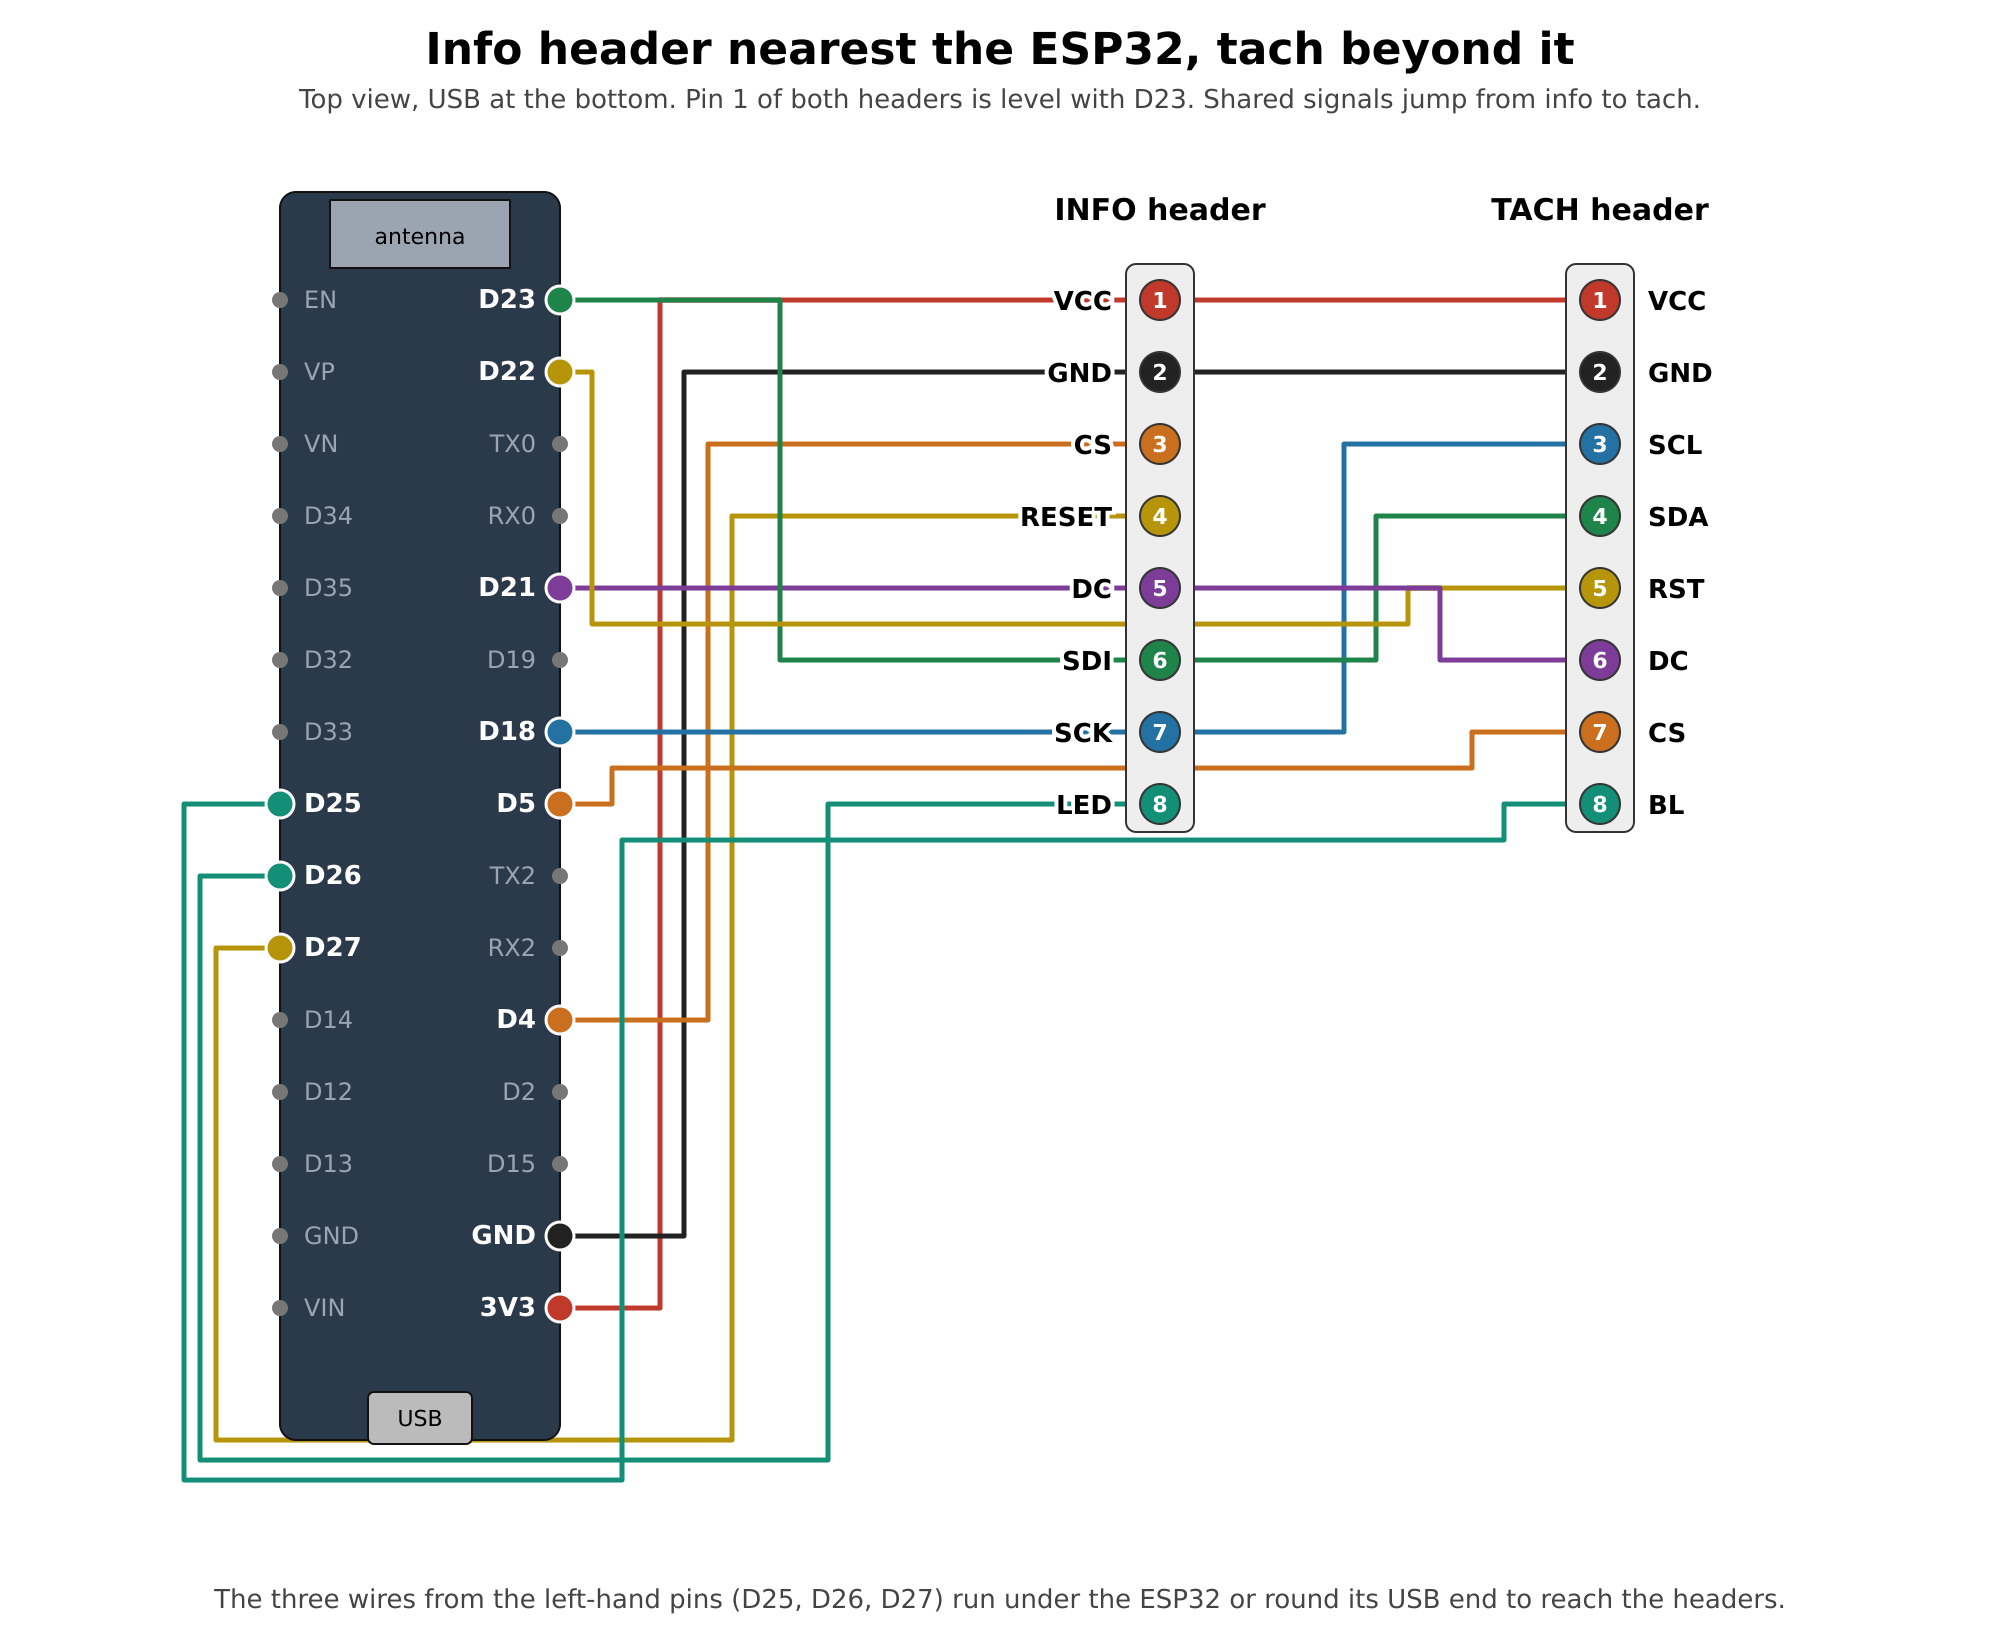
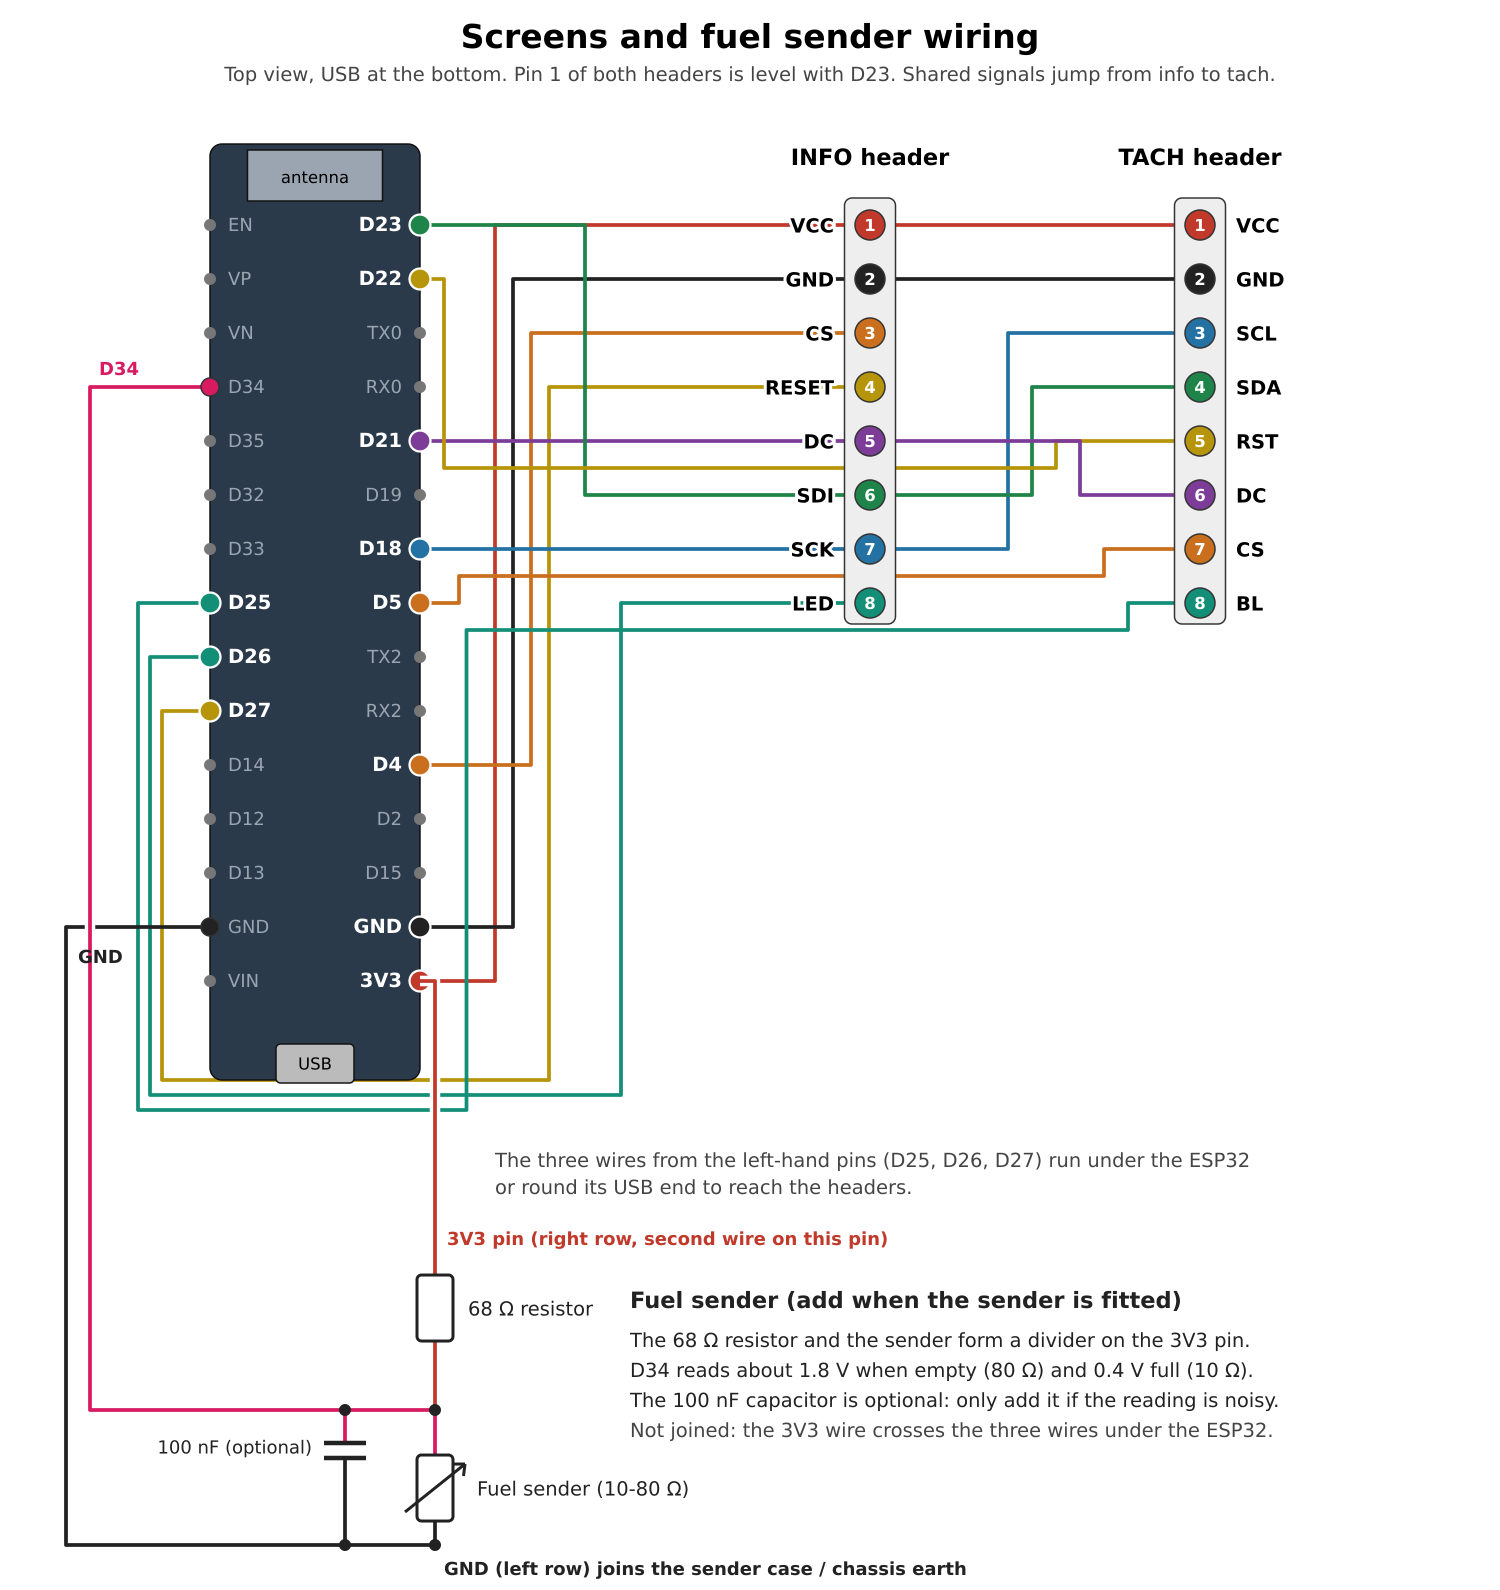
Fuel sender circuit on the wiring diagram, bridge update compiles

diff --git a/PROJECT_NOTES.md b/PROJECT_NOTES.md
@@ -210,7 +210,7 @@ The bridge C3 (mounted in the car) has no OTA yet; it would need the same treatm
 
 ## Bridge update over ESP-NOW (WIP, branch `bridge-espnow-update`, 2026-11-14)
 
-Written but NOT compiled, flashed or tested (the compile was interrupted twice). Do not merge to main until `bridge_c3_sim`, `bridge_c3_live`, `dash` and `dash_sim` build and a bench update has worked.
+Compiles (2026-11-14: `bridge_c3_sim`, `bridge_c3_live`, `dash`, `dash_sim` all build; bridge image about 975 KB = 74% of the slot, dash 84%) but NOT flashed or tested. Do not merge to main until a bench update has worked. The bridge image is much bigger than first guessed (about 975 KB), so expect a minute or so per update.
 - Design: the dash upload page (http://192.168.4.1) gets a second "Update bridge" box. The dash relays the .bin to the bridge over ESP-NOW, stop-and-wait, 192-byte chunks, unicast to the bridge MAC learned from its telemetry. Protocol and comments: `include/BridgeUpdate.h`; bridge side in `src/bridge/main.cpp` (`updatePoll`); dash side in `src/dash/main.cpp` (`bridgeUpload`).
 - Security: HMAC-SHA256 with a 16-byte key from `include/bridge_key.h` (git-ignored; `bridge_key.example.h` is committed). The bridge sends a fresh nonce per attempt; the final END message carries an HMAC over nonce + size + SHA-256 of the image, and the bridge only switches image if it matches. No time window on the bridge. The bridge refuses while the engine is running (link ok and rpm > 300). Without `bridge_key.h` both ends build with the feature off.
 - The key file is NOT in the repo: on another computer, ask the user for it (or generate a new one, then the bridge must be re-flashed over USB with that key and the dash rebuilt with the same one).
@@ -220,4 +220,4 @@ Written but NOT compiled, flashed or tested (the compile was interrupted twice).
 ## Fuel level sender (planned, not built)
 - Sender: JOPEX 113919049D (coolairvw.co.uk), resistive, 80 ohm empty, 10 ohm full. The user's tank has the opening and the sender will sit very close to the dash ESP32.
 - Plan: dash ESP32 GPIO34 (ADC1, input-only; ADC2 pins don't work with Wi-Fi on). 3V3 -> ~68 ohm -> GPIO34 node -> sender -> GND, 100 nF at the pin (about 1.8 V empty, 0.4 V full, ~40 mA max). The 3V3 pin is on the right-hand pin row, D34 and the left GND are on the left row.
-- Software to do: averaged ADC read, calibration table (fill in known steps, e.g. 5 L), slow filter, a new info panel (the 2x4 grid is full, so one cell must make room). Not yet added to the wiring diagram `docs/solder_side_by_side.svg` (the user asked for it; the generator script was lost with the scratchpad, so edit the SVG directly or redraw it).
+- Software to do: averaged ADC read, calibration table (fill in known steps, e.g. 5 L), slow filter, a new info panel (the 2x4 grid is full, so one cell must make room). Wiring is drawn at the bottom of `docs/solder_side_by_side.svg` (the generator script was lost with the scratchpad; the SVG is edited directly). The 100 nF capacitor is optional (user asked; the sender will be right next to the ESP32).
